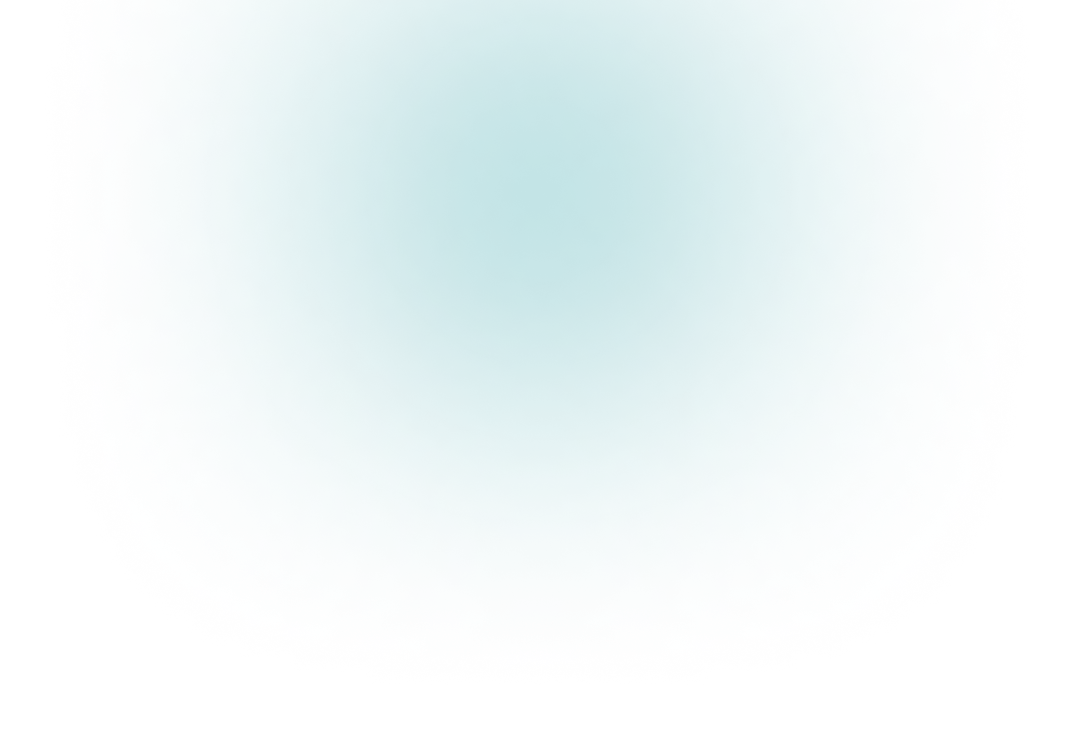
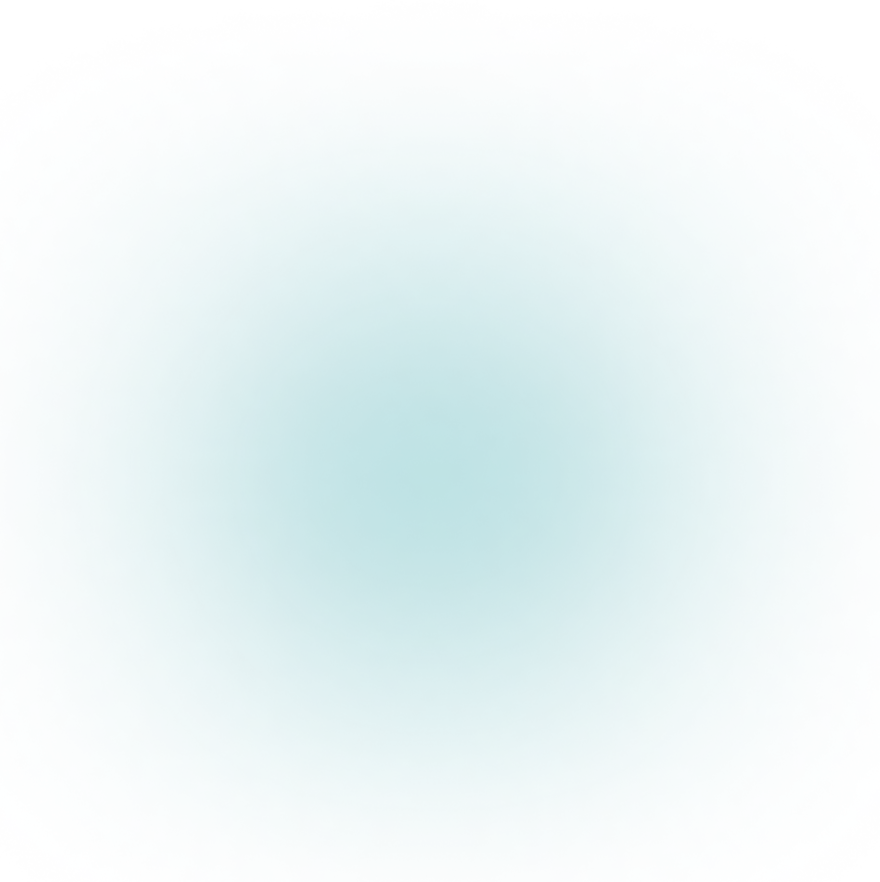
footer is now ready

Changed region(s): [[0.2148, 0.4809, 0.7364, 0.8415], [0.3068, 0.0, 0.7057, 0.3005]]

diff --git a/src/components/custom/sagar-ropes-shared/footer/ServerFooter.tsx b/src/components/custom/sagar-ropes-shared/footer/ServerFooter.tsx
@@ -37,13 +37,13 @@ async function ServerFooter() {
       >
         {/* content */}
         <div
-          className="grid grid-cols-1 gap-3 lg:gap-0 lg:grid-cols-4 
+          className="grid grid-cols-1 gap-3 lg:gap-0 lg:grid-cols-12 
       lg:mt-[30px] xl:mt-[60px] 2xl:mt-[70px]
       relative z-20"
         >
           {/* grid 1 */}
           <div
-            className="border border-white
+            className="col-span-1 lg:col-span-3
         space-y-[12px] lg:space-y-[15px] xl:space-y-[20px] 2xl:space-y-[25px]
         relative 
         flex flex-col items-center lg:items-start
@@ -51,8 +51,10 @@ async function ServerFooter() {
           >
             {/* logo */}
             {typeof footer?.logo === 'object' && footer?.logo?.url && (
-              <div
+              <Link
+                href={`/`}
                 className="relative z-20
+            hover:scale-110 transition-all duration-300 ease-in
             w-[150px] xl:w-[240px] 2xl:w-[260px]
             aspect-[701/179]"
               >
@@ -65,7 +67,7 @@ async function ServerFooter() {
                   sizes="100vw"
                   blurDataURL={footer?.logoBlurDataURL || ''}
                 />
-              </div>
+              </Link>
             )}
             {/* brand text */}
             <div className="font-manrope text-white-3 global-p4 z-20 w-[80%] text-center lg:text-start">
@@ -99,20 +101,20 @@ async function ServerFooter() {
               sizes="100vw"
               placeholder="blur"
               blurDataURL={FooterBlur01?.blurDataURL}
-              className="absolute -z-10  border border-white-1
+              className="absolute -z-10  
               lg:scale-125 xl:scale-150
               w-[80%] md:w-[60%] lg:w-full h-fit 
               lg:-left-[4%] 
-              -bottom-[120%] md:-bottom-[150%] lg:-bottom-[70%] 
-              "
+              -bottom-[120%] md:-bottom-[150%] lg:-bottom-[70%] opacity-80"
             />
           </div>
 
           {/* grid 2 */}
           <div
-            className="border border-white
+            className="col-span-1 lg:col-span-3
         space-y-[8px] lg:space-y-[15px] xl:space-y-[20px] 2xl:space-y-[25px]
-        flex flex-col items-center lg:items-start"
+        flex flex-col items-center lg:items-start 
+        lg:pl-9 xl:pl-10 2xl:pl-12"
           >
             <div className="text-white-3 font-proxima font-bold global-h5">
               {footer?.quickLinksSection?.header}
@@ -125,7 +127,20 @@ async function ServerFooter() {
                 <Link
                   key={index}
                   href={pageHref(item?.buttonLink)}
-                  className="text-white-2 global-p4 font-manrope text-center lg:text-start"
+                  className="w-fit mx-auto lg:mx-0
+    relative inline-block
+    text-white-2 global-p4 font-manrope text-center lg:text-start
+    hover:text-cyan transition-all duration-300 ease-in
+    
+    after:content-['']
+    after:absolute after:left-0 after:-bottom-[2px]
+    after:h-[2px] after:w-full
+    after:origin-left after:scale-x-0
+    after:bg-cyan
+    after:transition-transform after:duration-300 after:ease-in
+
+    hover:after:scale-x-100
+  "
                 >
                   {item?.buttonText}
                 </Link>
@@ -135,7 +150,8 @@ async function ServerFooter() {
 
           {/* grid 3 */}
           <div
-            className="hidden lg:flex  lg:flex-col items-center lg:items-start border border-white
+            className="col-span-1 lg:col-span-3
+            hidden lg:flex lg:flex-col items-center lg:items-start
         space-y-[8px] lg:space-y-[15px] xl:space-y-[20px] 2xl:space-y-[25px]"
           >
             <div className="text-white-3 font-proxima font-bold global-h5">
@@ -151,8 +167,22 @@ async function ServerFooter() {
                   key={index}
                 >
                   <Link
+                    key={index}
                     href={pageHref(item?.buttonLink)}
-                    className="text-white-2 global-p4 font-manrope flex  text-center lg:text-start"
+                    className="w-fit
+    relative inline-block
+    text-white-2 global-p4 font-manrope text-center lg:text-start
+    hover:text-cyan transition-all duration-300 ease-in
+    
+    after:content-['']
+    after:absolute after:left-0 after:-bottom-[2px]
+    after:h-[2px] after:w-full
+    after:origin-left after:scale-x-0
+    after:bg-cyan
+    after:transition-transform after:duration-300 after:ease-in
+
+    hover:after:scale-x-100
+  "
                   >
                     {item?.buttonText}
                   </Link>
@@ -174,7 +204,7 @@ async function ServerFooter() {
 
           {/* grid 4 */}
           <div
-            className="border border-white
+            className="col-span-1 lg:col-span-3
         space-y-[8px] lg:space-y-[15px] xl:space-y-[20px] 2xl:space-y-[25px]
         flex flex-col items-center lg:items-start
         relative "
@@ -293,11 +323,12 @@ async function ServerFooter() {
                 sizes="100vw"
                 placeholder="blur"
                 blurDataURL={FooterBlur02?.blurDataURL}
-                className="absolute h-fit -z-10  border border-white-1
-                w-[50%] lg:w-full 
-                 md:left-[220px] lg:-left-[20%] 
-                top-[190px] lg:-top-[20px] xl:-top-[30px]
-                lg:scale-125 xl:scale-150
+                className="absolute -z-10
+                w-[50%] h-[90%] md:h-[96%] lg:w-full lg:h-fit
+                 left-[100px] md:left-[250px] lg:-left-[30%] 
+                top-[170px] lg:-top-[100px] xl:-top-[140px] 
+                xl:scale-110 2xl:scale-125 
+                opacity-80
                 "
               />
             </div>

diff --git a/src/components/custom/sagar-ropes-shared/navbar/ClientNavbar.tsx b/src/components/custom/sagar-ropes-shared/navbar/ClientNavbar.tsx
@@ -107,7 +107,7 @@ function ClientNavbar({ data, blur }: Props) {
                   priority
                   placeholder="blur"
                   blurDataURL={blur || ''}
-                  quality={80}
+                  quality={90}
                 />
               )}
             </Link>
